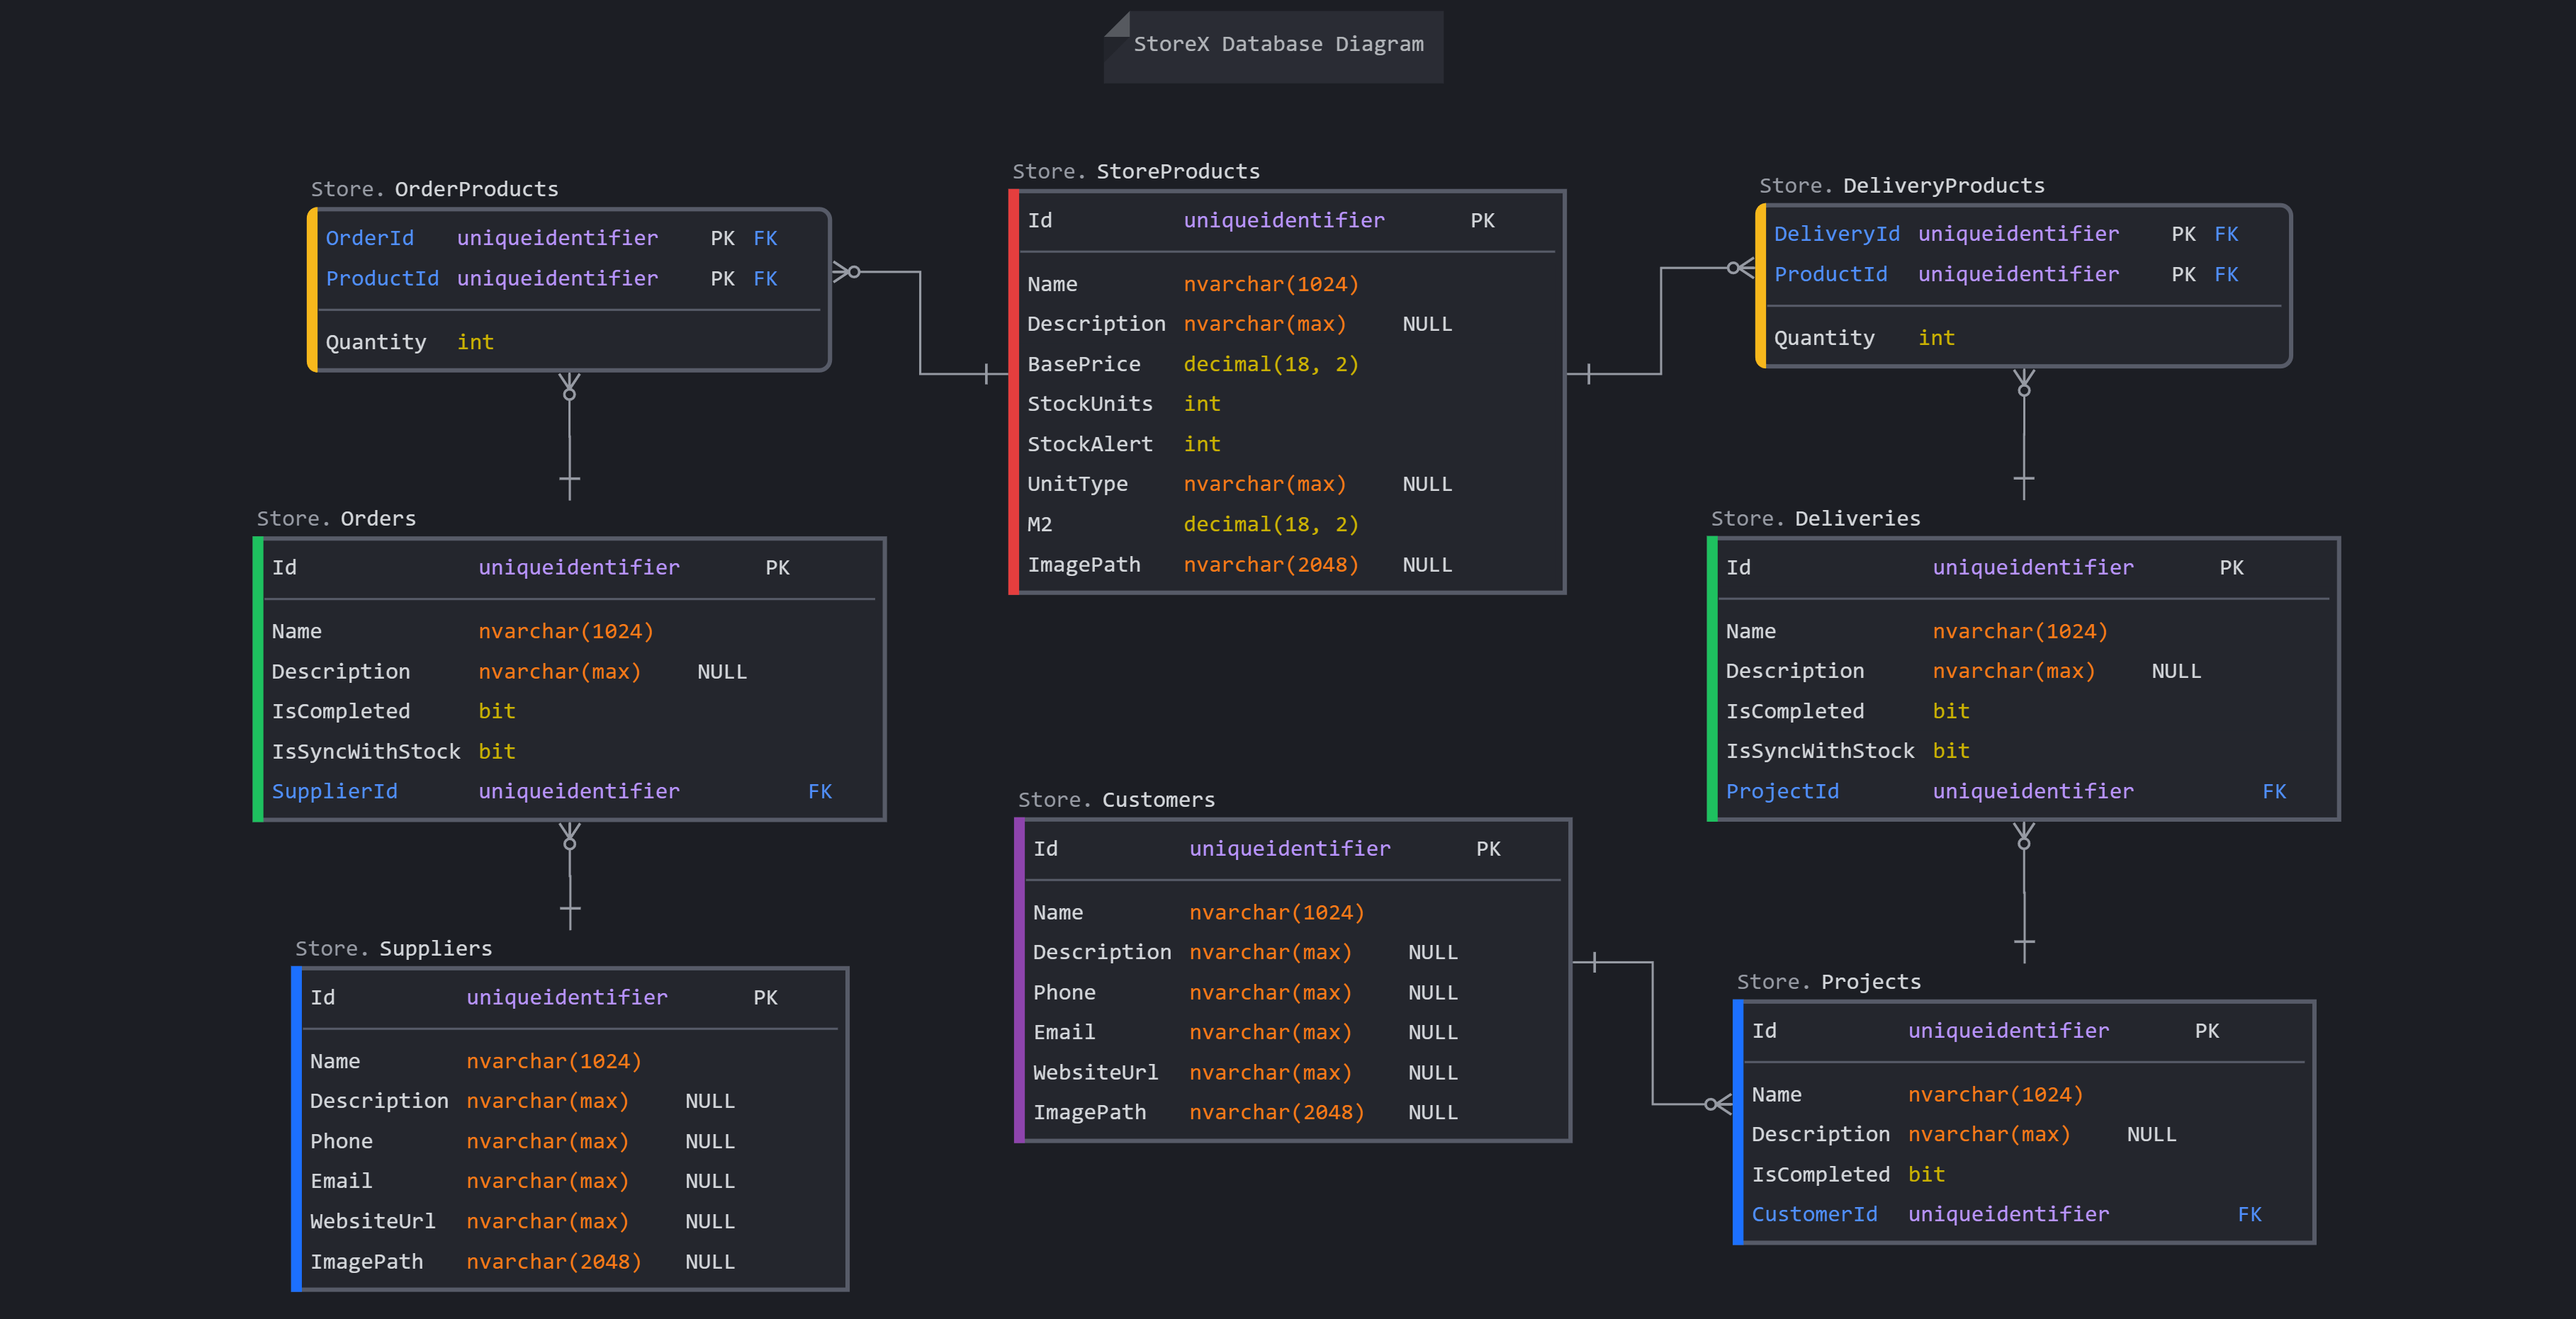
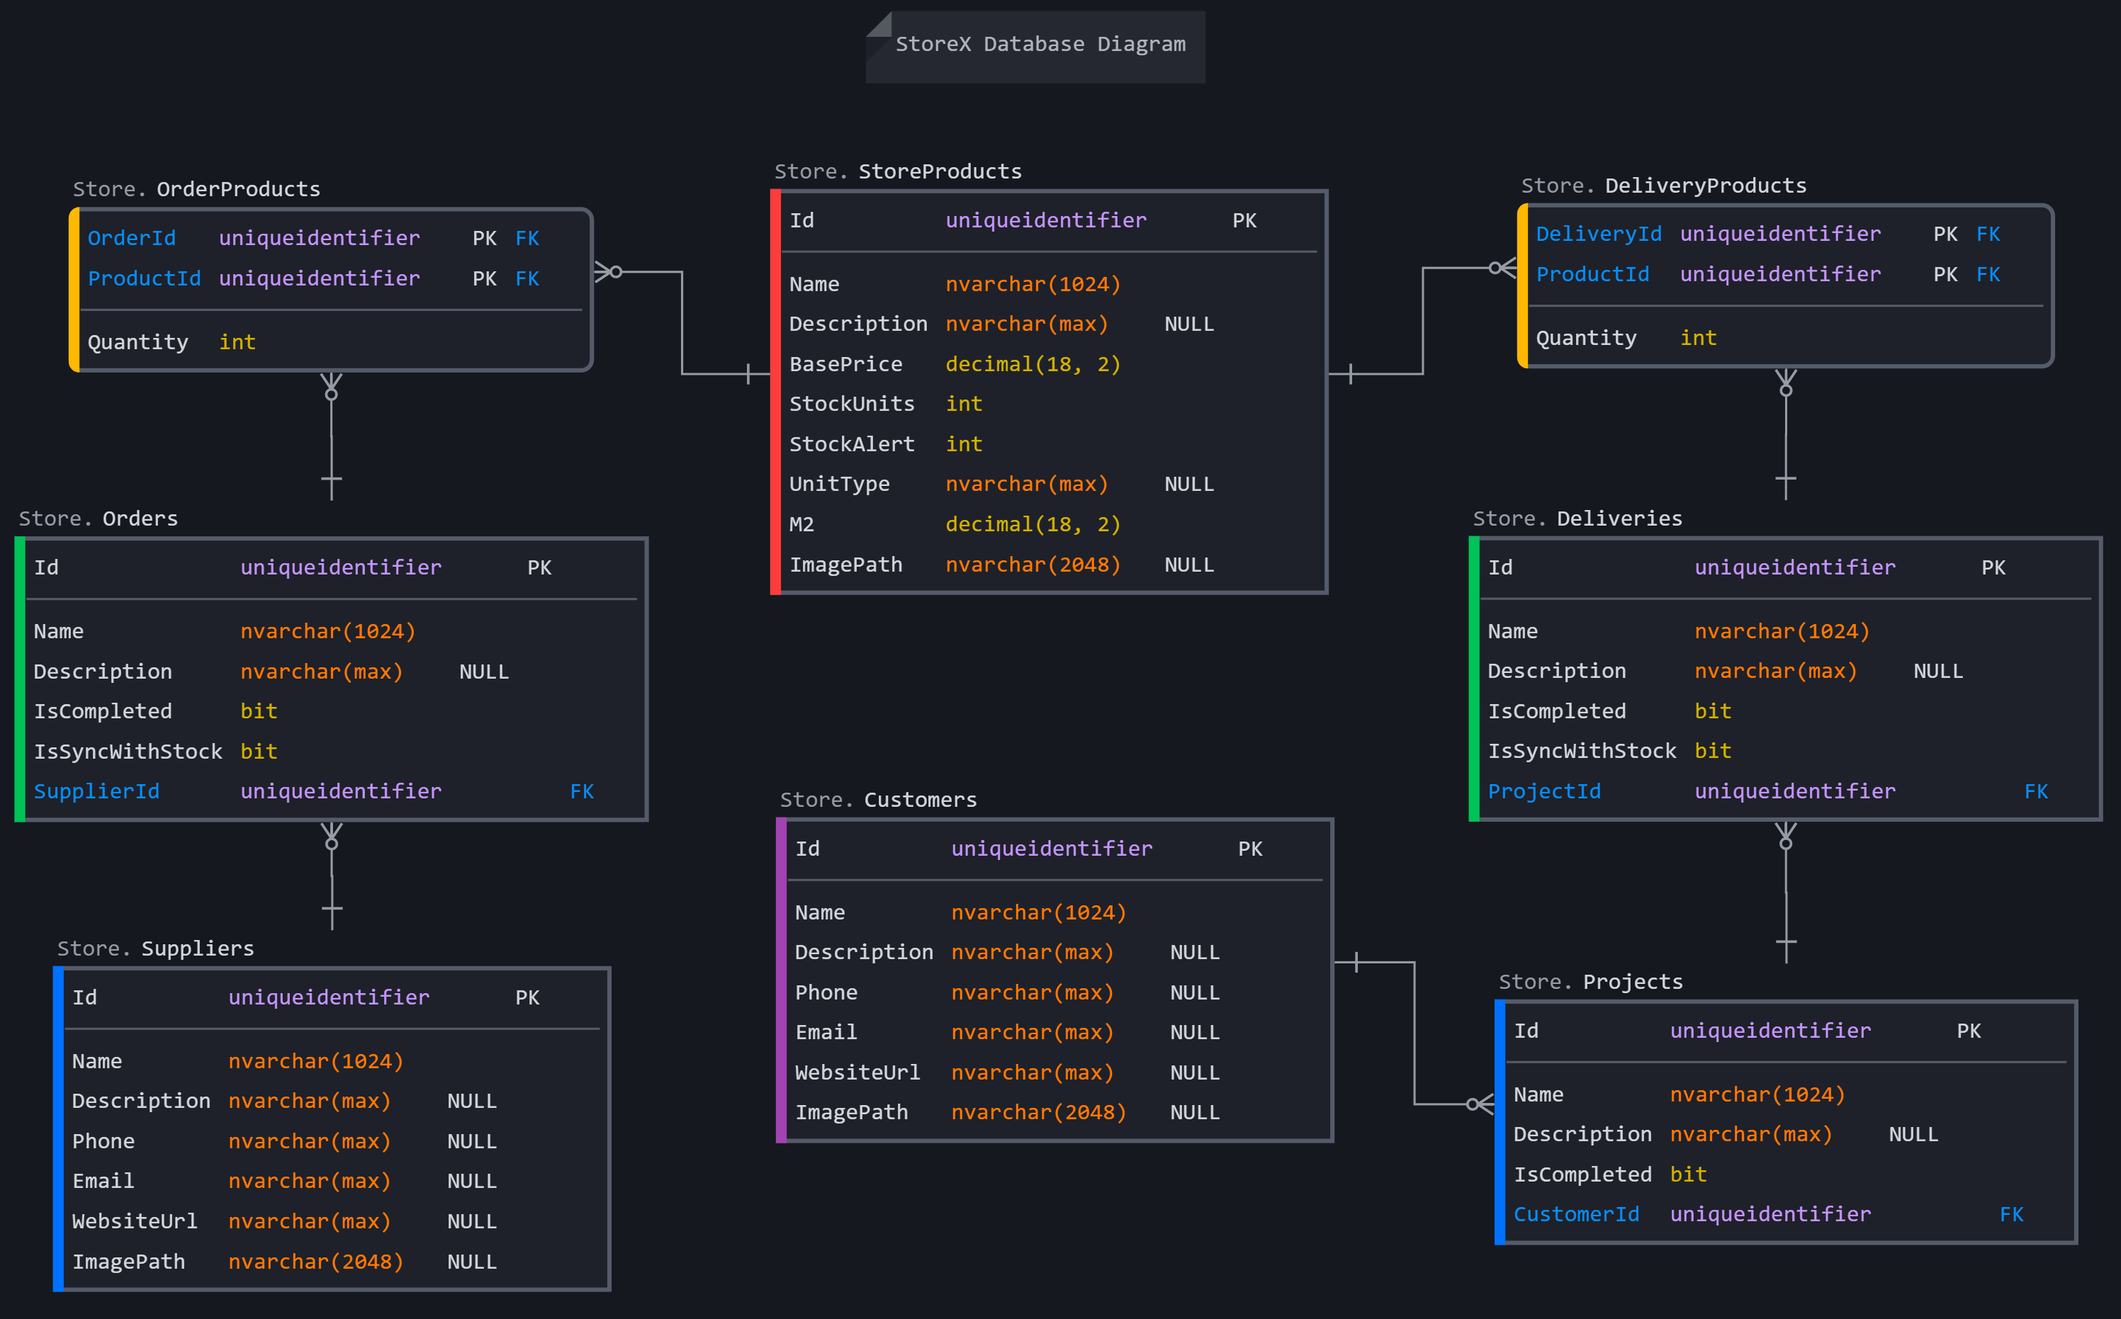
README links bugfixes

diff --git a/README.md b/README.md
@@ -1,6 +1,6 @@
 # StoreX - .NET 6 FullStack Web Application
 
-**StoreX** is a **FullStack Web Application** (`WebAPI` + `Blazor WebAssembly`) written in **.NET 6** and built with [FullStackHero's Boilerplate]() and [MudBlazor Components Library]().
+**StoreX** is a **FullStack Web Application** (`WebAPI` + `Blazor WebAssembly`) written in **.NET 6** and built with [FullStackHero's Boilerplate](https://fullstackhero.net/) and [MudBlazor Components Library](https://mudblazor.com/).
 
 It follows _Clean Architecture Principles_ and is composed of **two main repositories**:
 
@@ -28,9 +28,9 @@ The aim of both repositories is to familiarise myself with the creation of a .NE
   - [x] Create Models, Requests, Specs, Responses (Dtos) and Controllers.
 - [x] Master the use of MudBlazor for the creation of components.
 - [x] Integrate API and Client togheter with the creation of an autogenerated OpenAPI Client Service.
-- [] Use Azure DevOps for (CI/CD).
-- [] Use Docker for self-host app.
-- [] Tests.
+- [ ] Use Azure DevOps for (CI/CD).
+- [ ] Use Docker for self-host app.
+- [ ] Tests.
 - [x] Record the complete development progress of the application in a [CHANGELOG](./docs/CHANGELOG_STOREX.md).
 - [x] Pushing myself to work in an English-only enviroment.
 

diff --git a/docs/CHANGELOG_STOREX.md b/docs/CHANGELOG_STOREX.md
@@ -1,6 +1,13 @@
 # StoreX WebAPI Changelog
 
-## v0.0.11 - [Clean code and make it ready for prod]()
+## v0.0.12 - [README links bugfixes]()
+
+**branch :** _storex_
+
+    Edit:
+        - README : Bugfix some links and diagram size
+
+## v0.0.11 - [Clean code and make it ready for prod](https://github.com/rafitajaen/StoreX-WebAPI/tree/e11fe4745f742077818e0a97284f39e4d9e682f2)
 
 **branch :** _storex_
 
